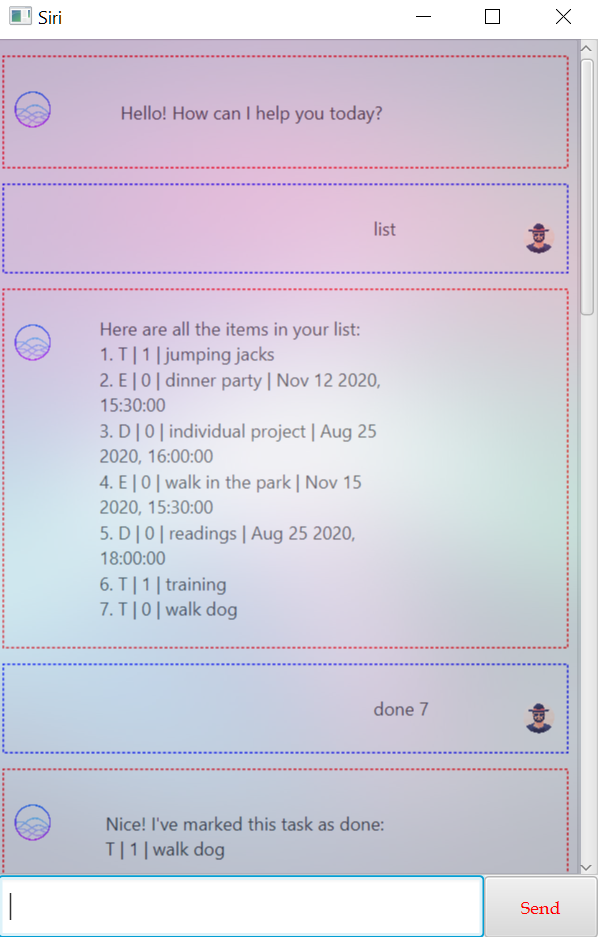
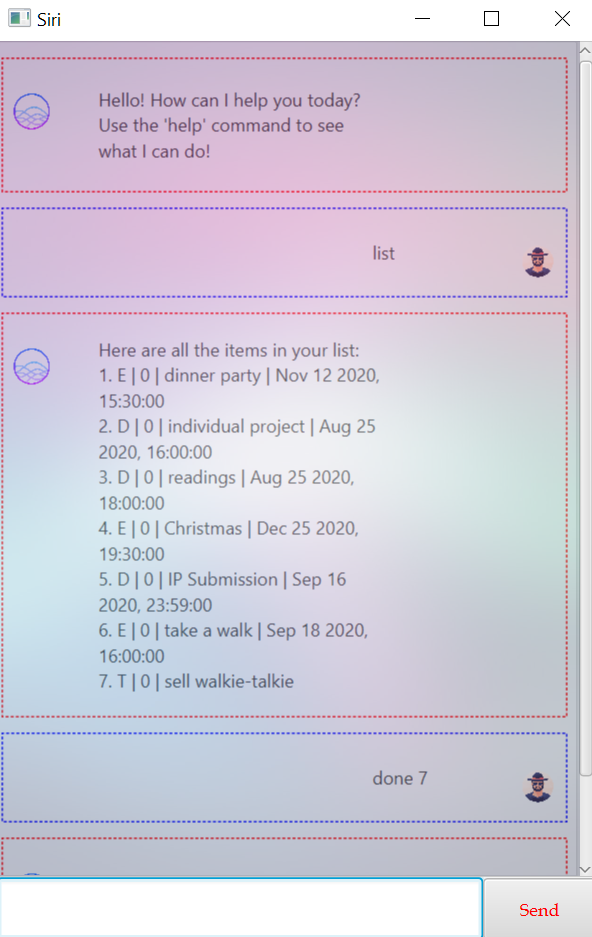
Add help command to Duke

Changed region(s): [[0.0, 0.0, 1.0, 1.0]]

diff --git a/src/main/java/duke/command/HelpCommand.java b/src/main/java/duke/command/HelpCommand.java
@@ -1,0 +1,34 @@
+package duke.command;
+
+import duke.DukeException;
+import duke.History;
+import duke.Storage;
+import duke.task.TaskList;
+
+/**
+ * Command that displays all the commands that Duke is able to understand to the user.
+ */
+public class HelpCommand extends Command{
+    /**
+     * Displays all the commands that Duke supports to the user.
+     *
+     * @param taskList the List of all the Tasks that Duke has.
+     * @param storage the database of Tasks that is saved to the user's local storage.
+     * @param history the state of all changes made to Duke's TaskList.
+     * @throws DukeException
+     */
+    @Override
+    public String execute(TaskList taskList, Storage storage, History history) throws DukeException {
+        return "Here are all the commands that you can give me:\n" +
+                "- 'list' to see all the tasks\n" +
+                "- 'todo <description>' to add a new todo task\n" +
+                "- 'event <description> /at <YYYY/MM/DD> <HH:MM>' to add a new todo task\n" +
+                "- 'todo <description> /by <YYYY/MM/DD> <HH:MM>' to add a new todo task\n" +
+                "- 'delete <taskId>' to delete the task with the given ID\n" +
+                "- 'done <taskId>' to mark the task with the given ID as completed\n" +
+                "- 'find <keyword>' to find all tasks with the descriptions matching the given keyword\n" +
+                "- 'undo' to undo the previous command given to Duke\n" +
+                "- 'help' to view this list again\n" +
+                "- 'bye' to exit the program\n";
+    }
+}

diff --git a/src/main/java/duke/command/ByeCommand.java b/src/main/java/duke/command/ByeCommand.java
@@ -10,13 +10,14 @@ import duke.task.TaskList;
 public class ByeCommand extends Command {
     /**
      * Prints out goodbye message to console before shutting down Duke.
+     *
      * @param taskList the List containing all the tasks that Duke has stored.
      * @param storage the database for Duke to save all tasks to the user's local storage.
      * @param history the state of all changes made to Duke's TaskList.
      */
     @Override
     public String execute(TaskList taskList, Storage storage, History history) {
-        return ("Bye. Hope to see you again soon!");
+        return "Bye. Hope to see you again soon!";
     }
 
     /**

diff --git a/src/main/java/duke/Parser.java b/src/main/java/duke/Parser.java
@@ -7,6 +7,7 @@ import duke.command.Commands;
 import duke.command.DeleteCommand;
 import duke.command.DoneCommand;
 import duke.command.FindCommand;
+import duke.command.HelpCommand;
 import duke.command.ListCommand;
 import duke.command.UndoCommand;
 
@@ -48,6 +49,8 @@ public class Parser {
             return new DeleteCommand(fullCommand);
         case UNDO:
             return new UndoCommand(fullCommand);
+        case HELP:
+            return new HelpCommand();
         default:
             throw new DukeException("I'm sorry, but I don't know what that means :-(");
         }

diff --git a/src/main/java/duke/command/Commands.java b/src/main/java/duke/command/Commands.java
@@ -4,5 +4,5 @@ package duke.command;
  * Constants describing all the possible types of Commands that a user can give to Duke.
  */
 public enum Commands {
-     BYE, LIST, TODO, EVENT, DEADLINE, DONE, DELETE, FIND, UNDO, UNKNOWN
+     BYE, LIST, TODO, EVENT, DEADLINE, DONE, DELETE, FIND, UNDO, UNKNOWN, HELP
 }

diff --git a/src/main/java/duke/command/FindCommand.java b/src/main/java/duke/command/FindCommand.java
@@ -37,6 +37,7 @@ public class FindCommand extends Command {
         }
 
         String keyword = this.userInput.substring(5);
-        return taskList.showSpecifiedItems(keyword);
+
+        return "I've found these tasks that matches your keyword:\n" + taskList.showSpecifiedItems(keyword);
     }
 }

diff --git a/src/main/java/duke/Duke.java b/src/main/java/duke/Duke.java
@@ -53,7 +53,7 @@ public class Duke {
     }
 
     public String greet() {
-        return "Hello! How can I help you today?";
+        return "Hello! How can I help you today? Use the 'help' command to see what I can do!";
     }
 
     /**

diff --git a/docs/README.md b/docs/README.md
@@ -4,9 +4,9 @@ Siri, your personal assistant to make task management easier.
 ![Image of Siri](./Ui.png)
 
 ## Features 
-### Create, read, update and delete task 
+### Create, read, update, and delete task 
 Manage all your different types of tasks - events, to-dos and deadlines by being able to start a new task,
-update an existing task, and delete a completed task.
+view existing tasks, mark task as completed, and delete a completed task.
 
 - Deadline and Event tasks have a completion date and time associated with them.
 
@@ -23,6 +23,25 @@ Ask Siri to show you all the tasks that you have - completed and uncompleted.
 Revert the changes you made and go back to the previous state by undoing your last command.
 
 ## Usage
+### `list` - Show all tasks
+
+Display all the tasks that Siri has - both completed and uncompleted
+
+Example of usage: 
+
+`list`
+
+Expected outcome:
+
+```
+Here are all the items in your list:
+1. E | 0 | dinner party | Nov 12 2020, 15:30:00
+2. D | 1 | Individual project | Aug 25 2020, 16:00:00
+3. D | 0 | readings | Aug 25, 2020, 18:00:00
+4. T | 0 | walk dog
+5. T | 0 | take a walk
+```
+
 ### `todo <description>` - Add a new to-do item
 
 Add a new to-do item for Siri to keep track of.
@@ -39,30 +58,113 @@ Got it. I've added this task:
 Now you have 5 tasks in the list.
 ```
 
-### `event <description> <YYYY/MM/DD> <HH:MM>` - Add a new event item
+### `event <description> /at <YYYY/MM/DD> <HH:MM>` - Add a new event item
 
 Add a new event item with its date for Siri to keep track of.
 
 Example of usage: 
 
-`event dinner 2020/12/25 13:30`
+`event Christmas /at 2020/12/25 19:30`
 
 Expected outcome:
 
 ```
 Got it. I've added this task:  
-   T | 0 | walk dog
+   E | 0 | Christmas | Dec 25 2020,
+19:30:00
 Now you have 5 tasks in the list.
 ```
 
-### `deadline <description> <YYYY/MM/DD> <HH:MM>` - Add a new deadline item
+### `deadline <description> /by <YYYY/MM/DD> <HH:MM>` - Add a new deadline item
 
 Add a new deadline item with its completion deadline for Siri to keep track of.
 
 Example of usage: 
 
-`keyword (optional arguments)`
+`deadline IP Submission /by 2020/09/16 23:59`
 
 Expected outcome:
 
-`outcome`
+```
+Got it. I've added this task:  
+   D | 0 | IP Submission | Sep 16 2020,
+23:59:00
+Now you have 5 tasks in the list.
+```
+
+### `done <taskId>` - Mark a task as done
+
+Mark the task with the given task ID as complete. The task ID can be seen from the list of all the tasks that Siri has.
+
+Example of usage: 
+
+`done 1`
+
+Expected outcome:
+
+```
+Nice! I've marked this task as done:
+T | 1 | jumping jacks
+```
+
+### `delete <taskId>` - Delete a task
+
+Remove a task from Siri's list of tasks. The task ID can be seen from the list of all the tasks that Siri has.
+
+Example of usage: 
+
+`delete 1`
+
+Expected outcome:
+
+```
+Noted. I've removed this task:
+T | 1 | jumping jacks
+Now you have 5 tasks in the list.
+```
+
+### `find <keyword>` - Search for tasks
+
+Search for all the tasks that Siri has with a task description that matches the given keyword.
+
+Example of usage: 
+
+`find walk`
+
+Expected outcome:
+
+```
+I've found these tasks that matches your keyword:
+1. T | 0 | walk dog
+2. E | 0 | take a walk | Sep 18, 2020, 16:00:00
+3. T | 0 | sell walkie-talkie
+```
+
+### `undo` - Undo previous change
+
+Undo previous command given to Siri - undo command can be performed until the Siri's startup state.
+
+Example of usage: 
+
+`undo`
+
+Expected outcome:
+
+```
+Undo successful! This is what your list looks like now:
+1. E | 0 | dinner party | Nov 12 2020, 15:30:00
+2. D | 1 | Individual project | Aug 25 2020, 16:00:00
+3. D | 0 | readings | Aug 25, 2020, 18:00:00
+4. T | 0 | walk dog
+5. T | 0 | take a walk
+```
+
+### `bye` - Exit program
+
+Say goodbye to Siri and exit the program.
+
+Example of usage: 
+
+`bye`
+
+Expected outcome: Program window closes.
